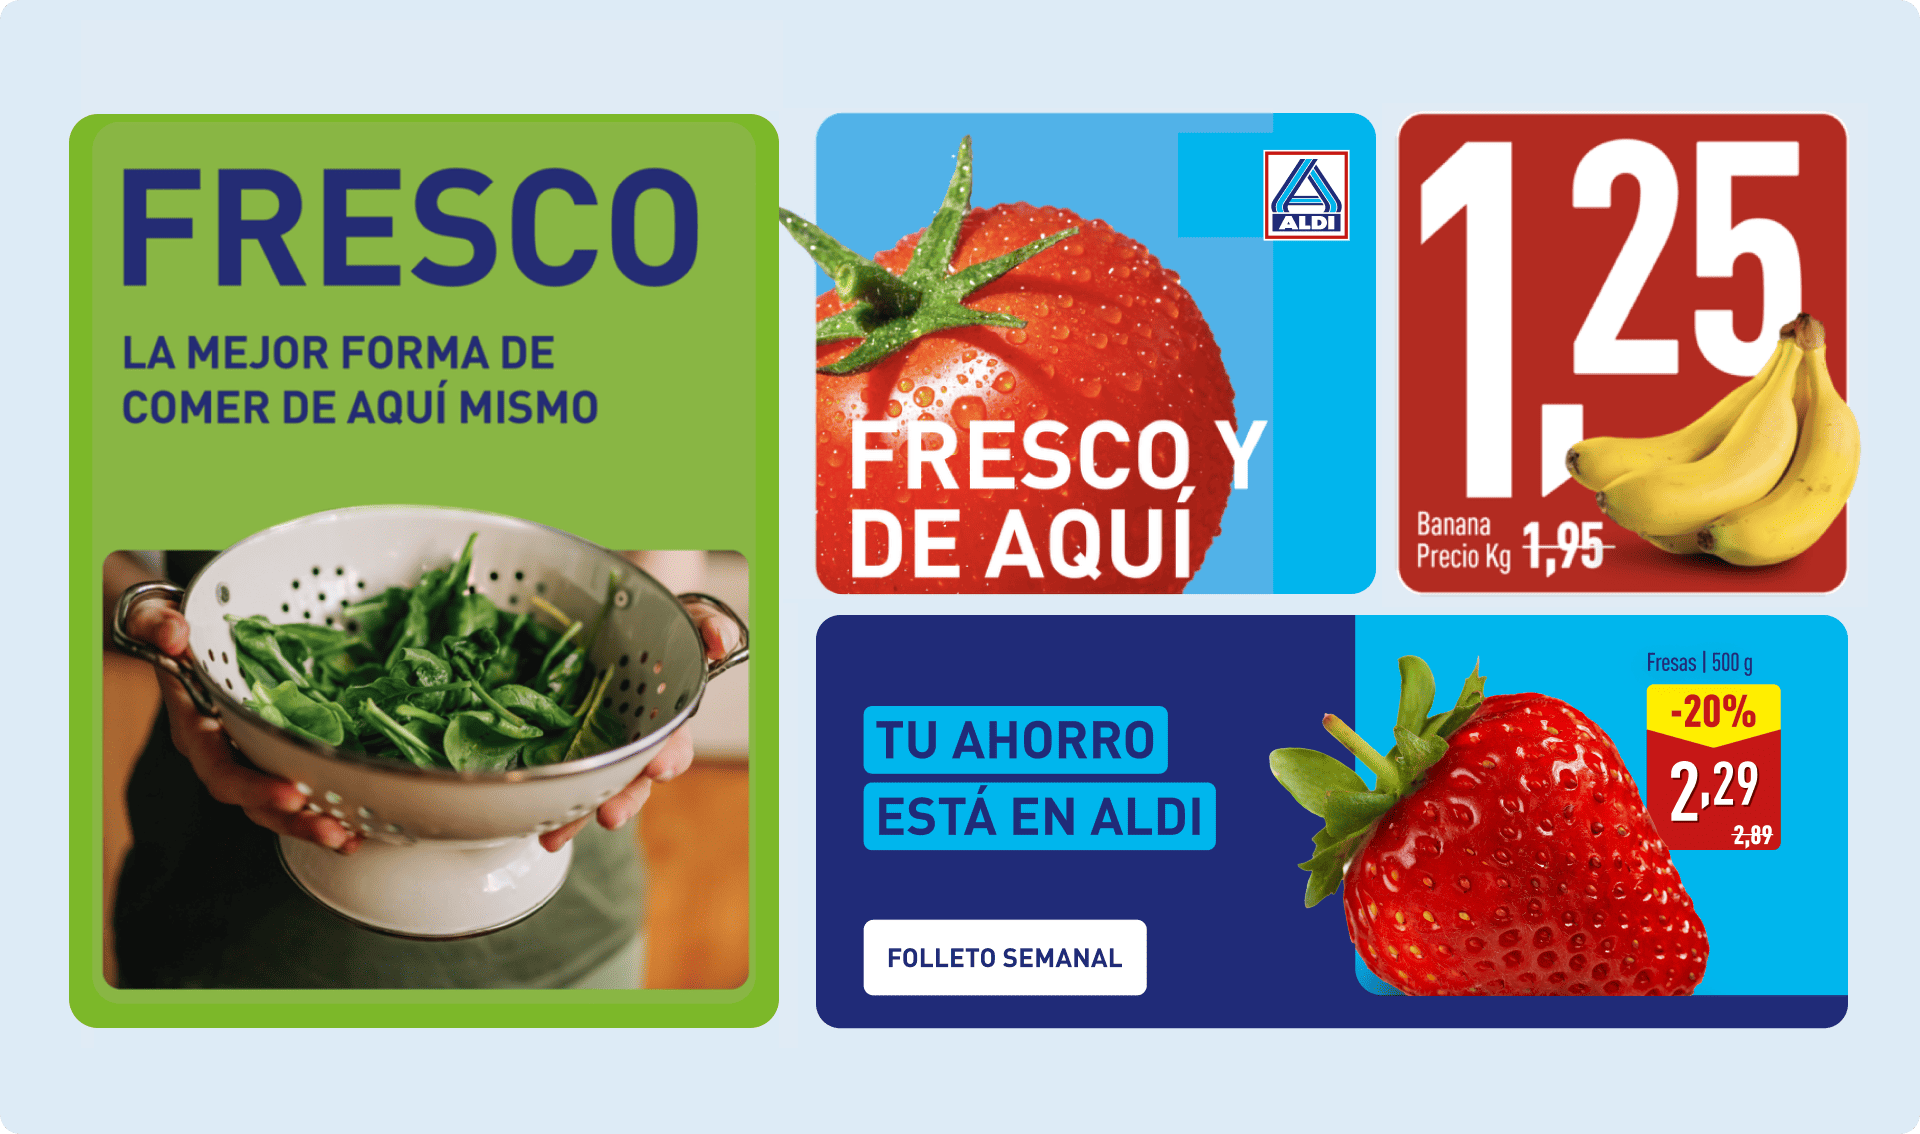
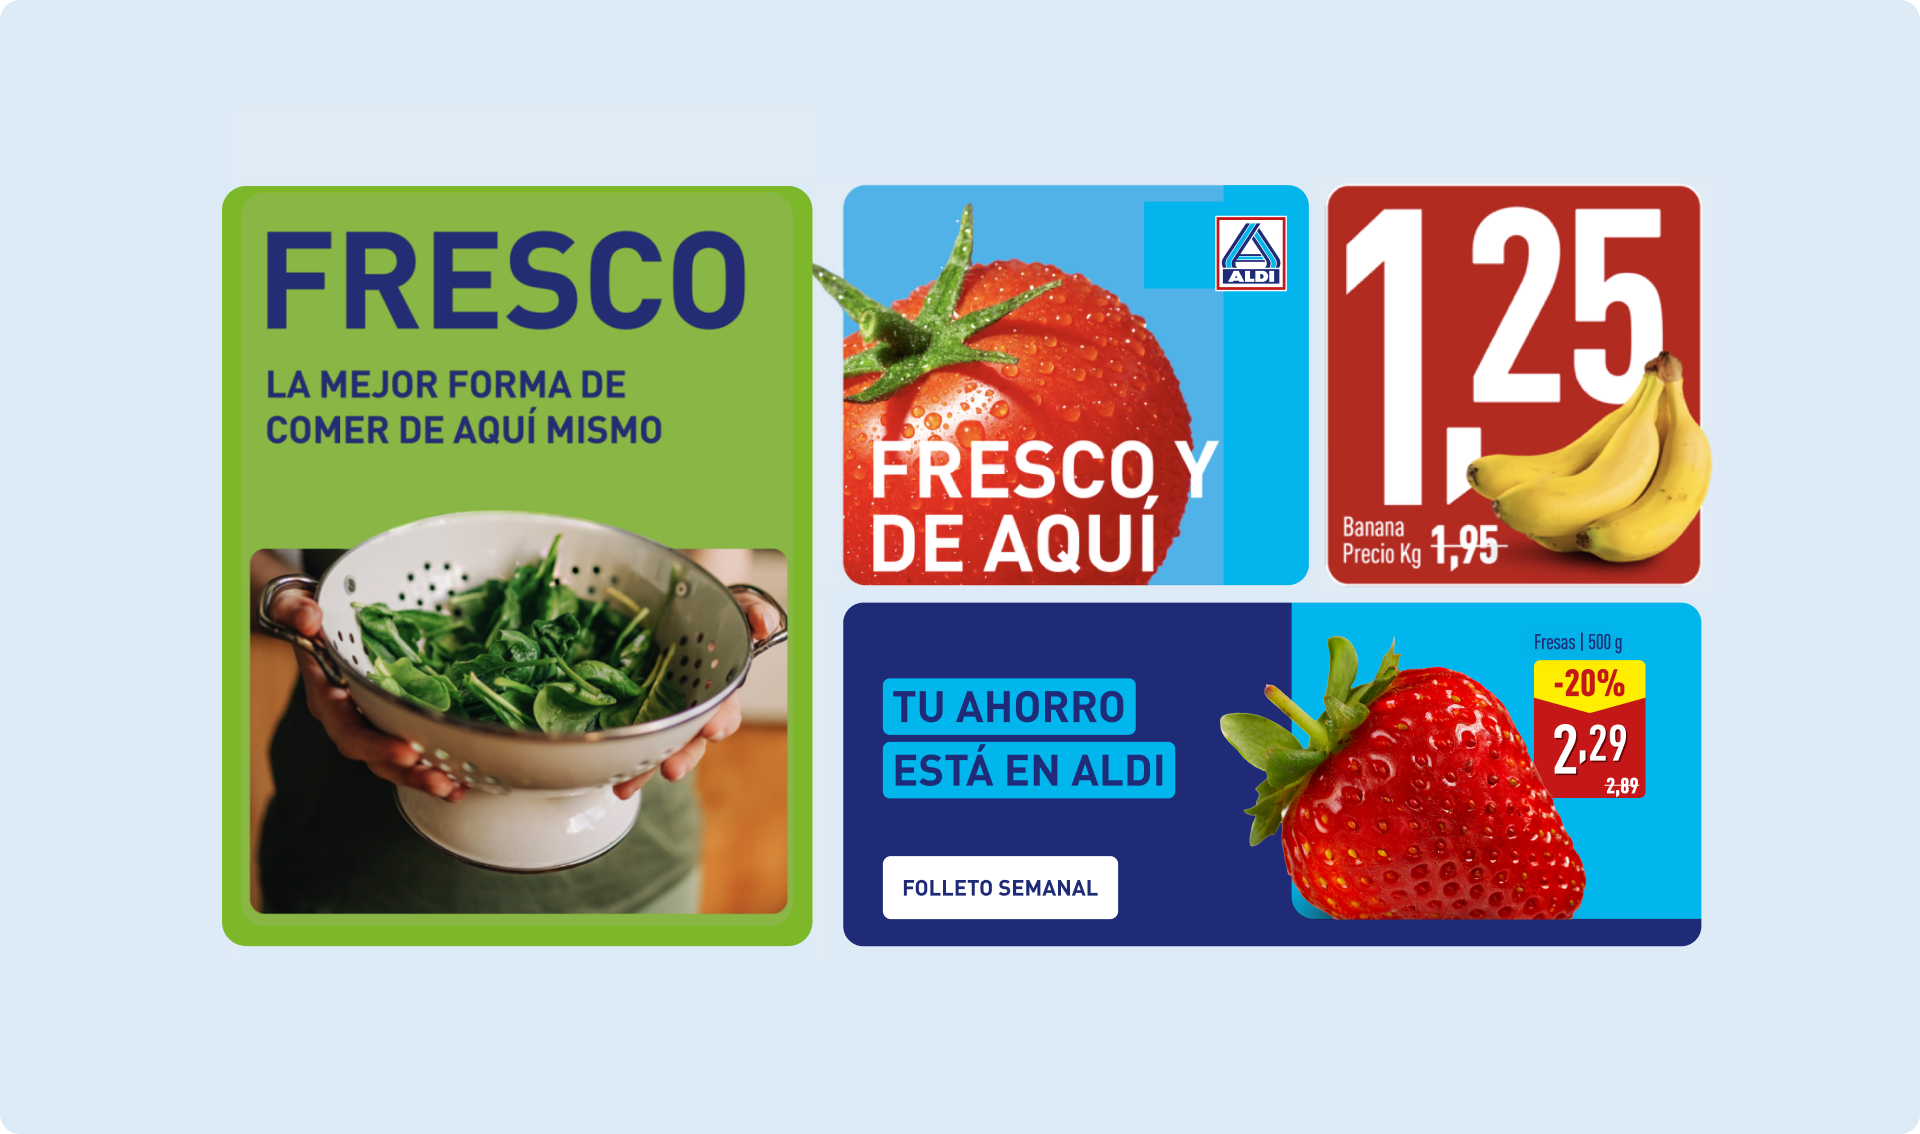
ALDI: corregir aldi_img_6, actualizar aldi_img_3 y añadir aldi_img_10

diff --git a/aldirefresh.html b/aldirefresh.html
@@ -391,12 +391,13 @@ Through a unified design system and shared UX foundations, we aligned navigation
 				<hr>
 
 				<figure class="has-animation has-cover" data-delay="300">
-						<a href="images/aldi/aldi_img_9.png" class="image-link"><img src="images/aldi/aldi_img_9.png" alt="Image Title"></a>
+						<a href="images/aldi/aldi_img_10.png" class="image-link"><img src="images/aldi/aldi_img_10.png" alt="Image Title"></a>
 
 				</figure>
 		</div>
 
-		<hr class="animated-line has-animation"><hr><hr><hr>
+		<hr><hr><hr>
+		<hr class="animated-line has-animation">
 
 </div>
 
